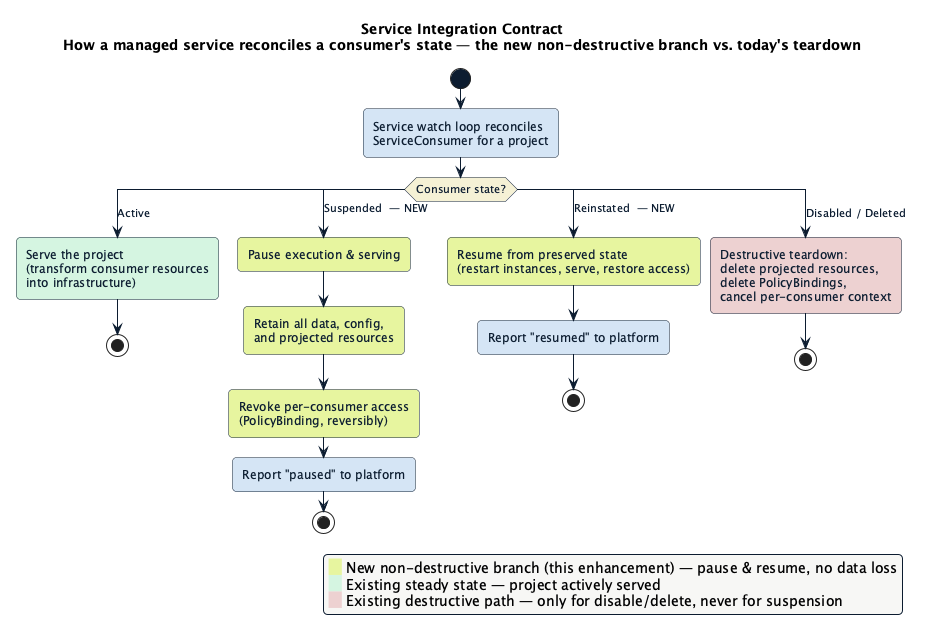
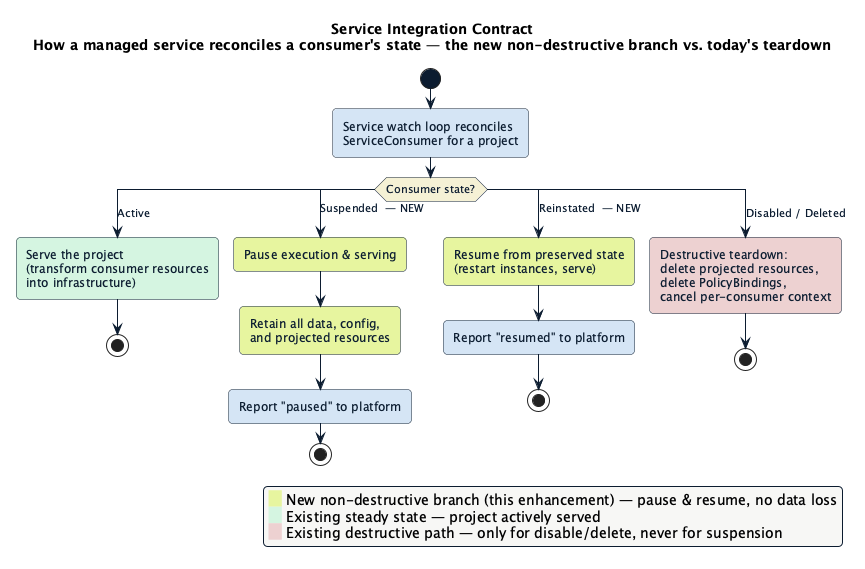
docs(project-suspension): remove access/identity revocation as an enforcement step
There is no project-level identity or credential to revoke: once a service
pauses execution and stops serving, the project runs no code and answers no
traffic, so it can no longer act. Pausing the work IS the enforcement. The
"PolicyBinding instant revocation" this doc kept citing is the destructive
disable/teardown path, which suspension explicitly must not reuse — citing it as
the suspension mechanism was the source of the confusion.

Enforcement is now two honest layers: admission blocks new writes; managed
services pause execution and serving, retaining data. Drops the revoke/identity
language from the overview, "what suspension does," goals, motivation, the
service-must-do contract, the integration reference, the two service-scoped
spots, the GCP comparison, and both diagrams (regenerated).

Changed region(s): [[0.0, 0.0299, 0.9988, 0.9859]]

diff --git a/enhancements/platform/project-suspension/README.md b/enhancements/platform/project-suspension/README.md
@@ -86,7 +86,7 @@ Deleting workloads to stop abuse has three unacceptable properties: it is
 **destructive** (the customer's data and configuration are gone), it is
 **irreversible** (a wrongly-flagged customer cannot be made whole), and it is
 **incomplete** (it addresses running compute but says nothing about the project's
-identity, networking, or other enabled services). A reversible project-level
+networking, DNS, or other enabled services). A reversible project-level
 control fixes all three.
 
 ### Goals
@@ -95,8 +95,8 @@ control fixes all three.
   with a clear `Active ⇄ Suspended` lifecycle and a full audit trail.
 - **Block all new work** in a suspended project (no new resources, no
   configuration changes) via admission.
-- **Pause all running work** — compute instances, served traffic, live
-  credentials — through a service-integration contract, without deleting data.
+- **Pause all running work** — compute instances and served traffic — through a
+  service-integration contract, without deleting data.
 - Define a **single integration contract** that every managed service uses to
   honor suspension, so behavior is uniform across compute, networking, DNS, and
   future services.
@@ -139,8 +139,7 @@ project. When flipped **on**:
    configuration in the project. The project's control plane accepts reads but
    rejects writes.
 2. **Everything running stops — but nothing is deleted.** Compute instances are
-   paused, published endpoints stop serving, and the project's access to its
-   enabled services is revoked. Disks, configuration, IP allocations,
+   paused and published endpoints stop serving. Disks, configuration, IP allocations,
    DNS records, and enabled-service state all remain in place.
 3. **The customer is told why, and how to appeal.** Suspension records a reason
    and notifies the project's owners, with a path to request review.
@@ -149,7 +148,7 @@ When flipped **off** (reinstatement):
 
 1. **The project unfreezes** and accepts writes again.
 2. **Everything resumes** from where it left off — instances start from their
-   preserved state, endpoints serve again, and access is restored.
+   preserved state and endpoints serve again.
 3. **The full history** of who suspended and reinstated the project, when, and
    why, is retained for audit and appeal.
 
@@ -182,7 +181,7 @@ sequenceDiagram
     CP-->>Adm: Suspension state propagates
     CP-->>Svc: Suspension signal propagates<br/>(via ServiceConsumer / project CP watch)
     Adm->>Adm: Reject new writes (admission)
-    Svc->>Svc: Pause running work & revoke<br/>per-consumer access (retain data)
+    Svc->>Svc: Pause execution & serving<br/>(retain data)
     Svc-->>CP: Report "paused" status
     Note over CP,Svc: Project is fully suspended,<br/>no data lost
 
@@ -199,8 +198,8 @@ it outward. Two independent enforcement layers then act on that single signal
 (detailed in [Enforcement layers](#enforcement-layers)):
 
 - **Admission** blocks new writes in the project's control plane.
-- **Managed services** pause the running work they own for the project and revoke
-  the per-consumer access they granted it — reversibly, retaining all data.
+- **Managed services** pause the running work they own for the project — stopping
+  execution and serving while retaining all data.
 
 No single component has to know about all of the others. Each observes the
 project's suspension state and does its part — the same loosely-coupled,
@@ -266,9 +265,9 @@ and it works for every project, using the same watch loop I already run.
 **Story 6 — Service provider suspends one consumer's access to its own service.**
 As the owner of a managed service, I detect abuse of *my* service by one consumer
 (or a per-service billing hold) that does not warrant suspending their whole
-project. I suspend just that consumer's access to my service; their access is
-revoked and their work on it is paused non-destructively, while the rest of their
-project keeps running. *Experience:* I can enforce at the granularity I own,
+project. I suspend just that consumer's access to my service; my service stops
+serving them and their work on it is paused non-destructively, while the rest of
+their project keeps running. *Experience:* I can enforce at the granularity I own,
 reversibly, instead of destructively disabling the service or escalating to a
 project-wide action.
 
@@ -439,9 +438,8 @@ the API specifics are sketched in [Design Details](#design-details).
 
 When a consumer project transitions to **suspended**, the service must:
 
-- **Stop serving and stop executing** the project's work — pause instances, stop
-  answering on published endpoints, and stop honoring the project's workload
-  identities.
+- **Stop serving and stop executing** the project's work — pause instances and
+  stop answering on published endpoints.
 - **Retain everything.** Keep all data, disks, configuration, allocations, and
   projected resources. Do **not** invoke the destructive teardown path used for
   service *disable*.
@@ -451,8 +449,8 @@ When a consumer project transitions to **suspended**, the service must:
 
 When the project is **reinstated**, the service must:
 
-- **Resume from the preserved state** — restart paused instances, resume serving,
-  re-enable identities.
+- **Resume from the preserved state** — restart paused instances and resume
+  serving.
 - **Report resumed** and emit a control-plane Event (`reason: ProjectResumed`).
 
 This is deliberately the *inverse* of today's behavior. Currently, when a
@@ -500,8 +498,7 @@ provider stamping the *same* suspended state onto the *one* `ServiceConsumer` it
 owns for that consumer. Nothing downstream changes:
 
 - The engagement library's **Suspend hook fires for that one relationship** — the
-  service revokes the consumer's access (reversibly), pauses what it serves for
-  them, and retains their data. Reinstatement runs the Resume hook, same as a
+  service pauses what it serves for that consumer and retains their data. Reinstatement runs the Resume hook, same as a
   project-wide lift.
 - **The blast radius stops at this service.** The consumer's other enabled
   services and their project stay `Active`; only this service goes dark for them.
@@ -537,13 +534,11 @@ Suspension slots directly into this model:
 
 - The **watch loop** that already reconciles per-consumer resources is where the
   service observes the suspension signal.
-- The **"instant revocation" property** (deleting a PolicyBinding immediately
-  revokes access) is exactly the access-revocation behavior suspension needs — but
-  suspension must do it *reversibly* (revoke while suspended, restore on
-  reinstate) rather than by permanent deletion.
 - The catalog's per-consumer engagement library gains the Suspend/Resume hooks
   so the transform/status loop has a defined, non-destructive path for a
-  suspended consumer.
+  suspended consumer — pause execution and serving, retain everything — distinct
+  from the existing destructive teardown (which deletes the consumer's projected
+  resources and `PolicyBinding`s).
 
 ### Making suspension observable (activities and events)
 
@@ -688,16 +683,14 @@ state:
    plane declares intent, and a gate refuses to persist new work that violates
    it. Deny responses carry a typed reason so clients can surface "this project
    is suspended."
-2. **Managed services (pause work and revoke access, reversibly).** Each service
-   pauses execution and serving for the project per the
-   [Service Integration Contract](#service-integration-contract), retaining data,
-   and revokes the per-consumer access it granted — the `PolicyBinding`s the
-   managed-service pattern already issues per consumer. Deleting a `PolicyBinding`
-   is how a service is disabled today ("delete PolicyBinding = immediate access
-   loss"); suspension reuses that instant-revocation behavior but applies it
-   *reversibly* — revoked while suspended, restored on reinstatement — never by
-   permanent deletion. The access being revoked is the per-consumer grant the
-   service already owns; there is no separate workload-identity system involved.
+2. **Managed services (pause running work).** Each service pauses execution and
+   serving for the project per the
+   [Service Integration Contract](#service-integration-contract), retaining data.
+   A paused project runs no code and serves no traffic, so it can no longer act —
+   pausing the work *is* the enforcement; there is no separate project "identity"
+   or credential to revoke on top of it. (Permanently deleting a service's
+   per-consumer `PolicyBinding`s is the *destructive disable* path, which
+   suspension deliberately does not use.)
 
 ### Reinstatement and reversibility
 
@@ -726,7 +719,7 @@ design. The mapping:
 | Resource Manager project lifecycle | Declarative project state; suspension enforced *on top of* state | First-class `Suspended` condition on the Project (cleaner than GCP's implicit approach) |
 | Project suspension (abuse/ToS) | Workloads shut down, access revoked, resources **retained**; reversible via appeal | Non-destructive pause + operator-gated reinstatement + appeal path |
 | **Service Control `Check`** | Every request checks consumer/billing/abuse/enablement status before executing | Admission gate blocks writes in a suspended project; services consult suspension state before serving |
-| Control-plane intent vs data-plane enforcement | State stored centrally; enforced per-request + by async reconcilers | Project declares `Suspended`; admission + services + identity enforce independently |
+| Control-plane intent vs data-plane enforcement | State stored centrally; enforced per-request + by async reconcilers | Project declares `Suspended`; admission and services enforce independently |
 | Suspension reasons (abuse vs billing) | Different triggers, different reinstate owners | `reason` + `reinstateAuthority` fields |
 | Compute suspend/stop/delete ladder | Graded reversibility; suspend retains RAM + disk | Depend on the compute instance pause primitive for lossless compute pause |
 | Deletion recovery window | 30-day `DELETE_REQUESTED` + undelete | Time-boxed retention before suspension escalates to deletion |
